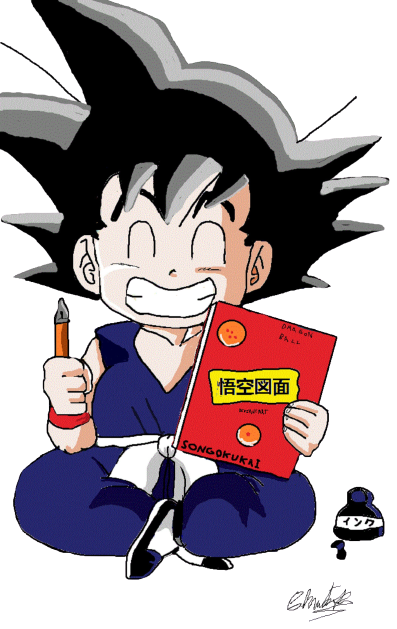
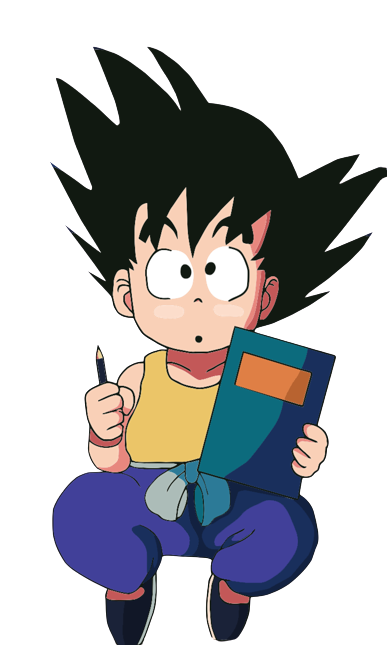
Prueba

diff --git a/Tarea Clase(Goku)/historia.html b/Tarea Clase(Goku)/historia.html
@@ -27,7 +27,7 @@
     </p>
   </div>
   <div class="c-goku">
-    <img src="Img/gokusal.png" alt="goku" height="230px" width="auto">
+    <img src="Img/gokuley.png" alt="goku" height="230px" width="auto">
   </div>
 </div>
 <div class="fila2">
